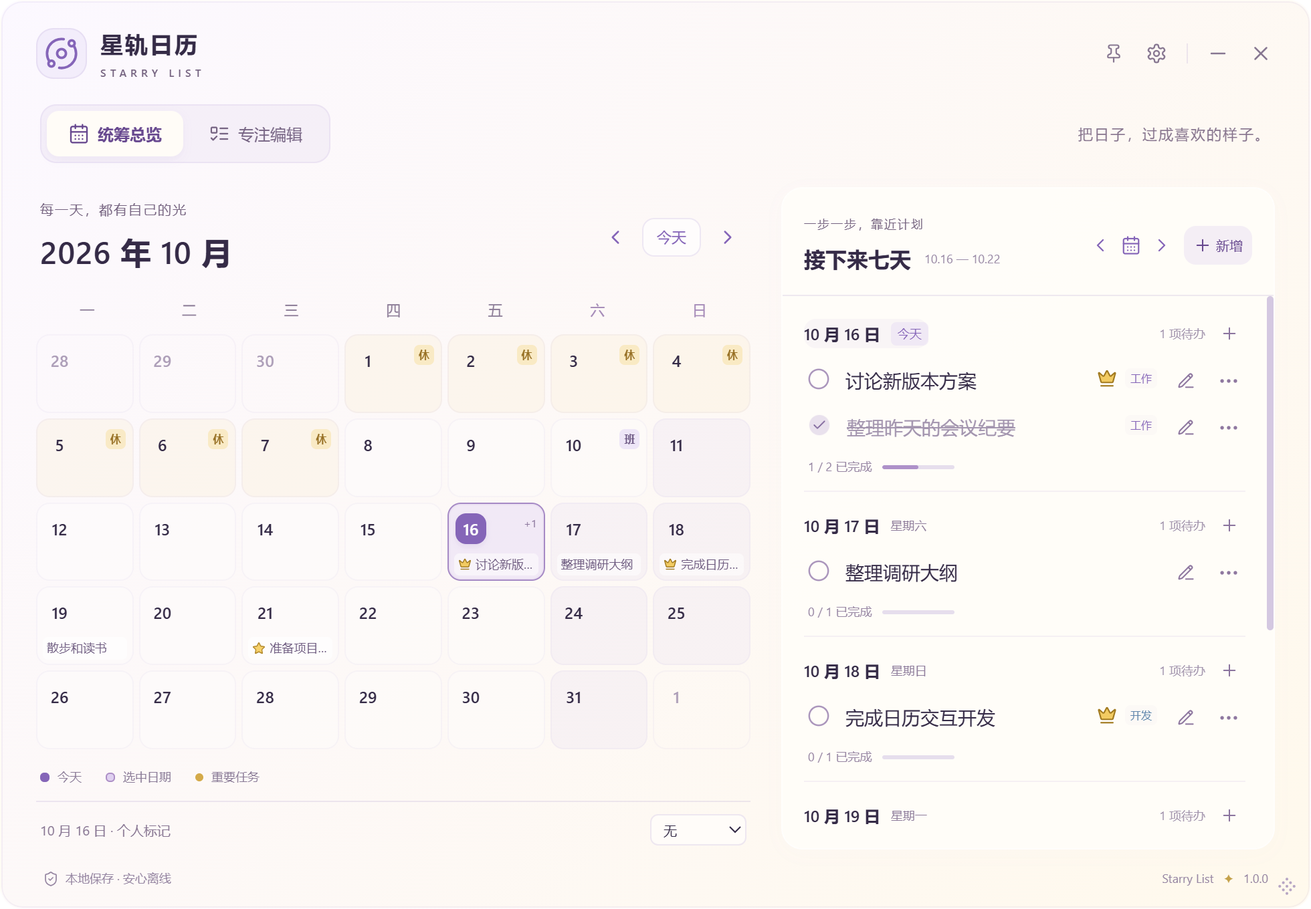
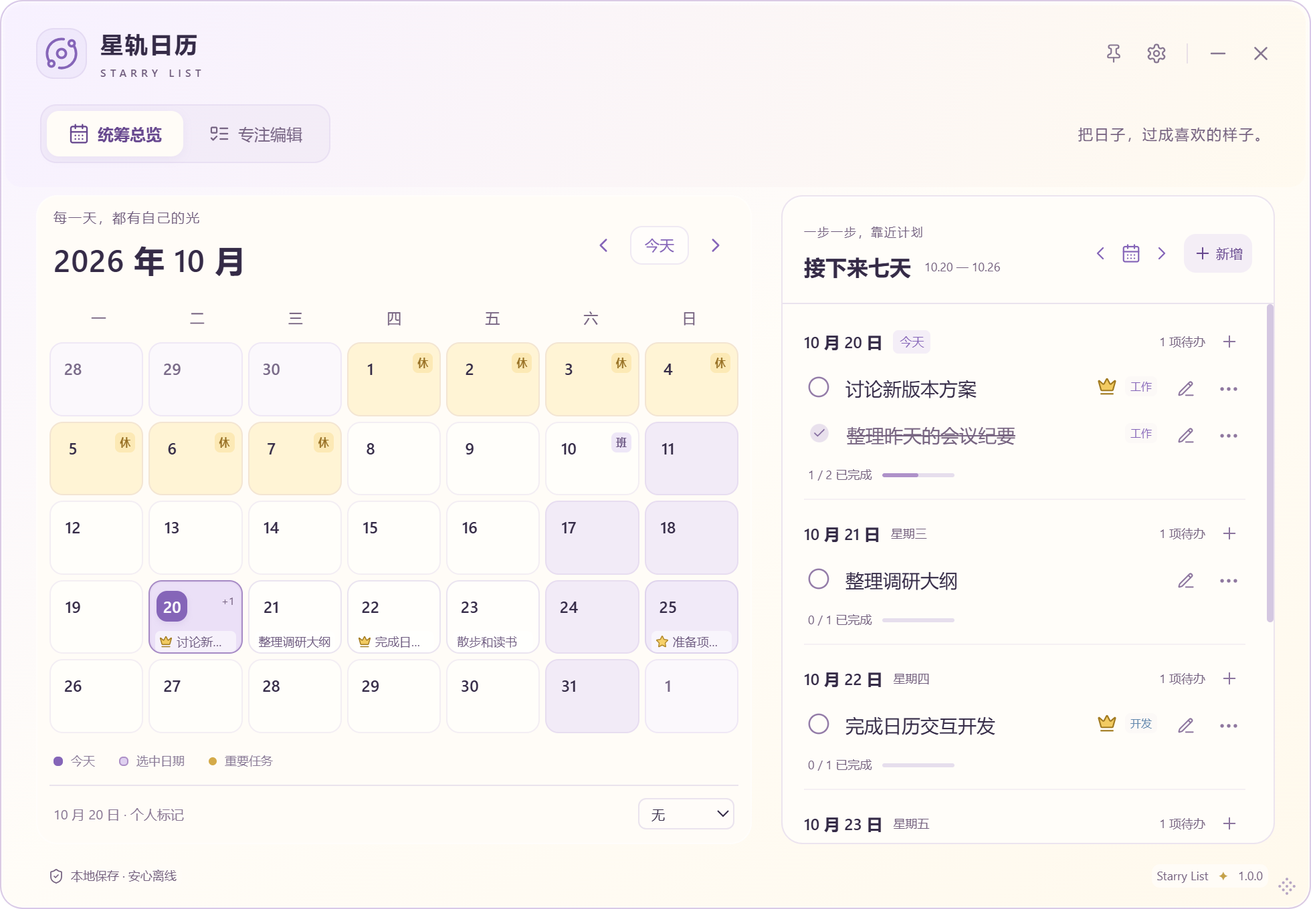
docs: record UX3.0 visual validation and preview builds

diff --git a/docs/ROADMAP.md b/docs/ROADMAP.md
@@ -1,6 +1,6 @@
 # Starry List 开发路线图
 
-维护者：yoli。更新日期：2026-10-16（Asia/Shanghai）。[需求池](PRODUCT_BACKLOG.md) 是详细需求与状态的唯一权威来源；本文件展示方向与推荐顺序，不是交付日期或开发授权。
+维护者：yoli。更新日期：2026-10-20（Asia/Shanghai）。[需求池](PRODUCT_BACKLOG.md) 是详细需求与状态的唯一权威来源；本文件展示方向与推荐顺序，不是交付日期或开发授权。
 
 ## 产品愿景
 
@@ -10,15 +10,16 @@ Windows 是当前主要平台，未来考虑 macOS。桌面驻留是待验证的
 
 ## 当前实际状态
 
-| 范围                   | 已开发                                                                                                                  | 自动化测试                                                                               | 真实桌面测试                                                 | 用户验收                                        | 正式发布               |
-| ---------------------- | ----------------------------------------------------------------------------------------------------------------------- | ---------------------------------------------------------------------------------------- | ------------------------------------------------------------ | ----------------------------------------------- | ---------------------- |
-| 初始 V1.0 源码基线     | 已提交并 Push：[`830b88f`](https://github.com/YOLIIIIII/starry-list/commit/830b88f3ddc7fbf23084cab7a722db8dcbe45f2d)    | 首次 [GitHub CI](https://github.com/YOLIIIIII/starry-list/actions/runs/38733069296) 成功 | 原始记录为 Windows 11 验证；不等于所有 Windows 设备已认证    | 未记录完整 V1.0 最终验收                        | 没有 GitHub Release    |
-| SL-001 阅读 / 编辑分离 | 已实现并独立提交：[`23a7cd3`](https://github.com/YOLIIIIII/starry-list/commit/23a7cd3941a28d0724e254ca7b9bb71c9b8fd5c8) | UX2.3 TypeScript、Lint、100 项前端和 11 项 Rust 测试通过                                 | UX2.3 22 组原生回归通过，含宽窄抽屉、长文本、菜单及保存失败  | 用户认可大部分首轮改进；In Review，仍待最终验收 | 未发布，仅本地体验构建 |
-| SL-002 七天日程空状态  | UX2.3：保留可靠失焦新增，Enter 成功后返回原日期加号                                                                     | 100 项前端、11 项 Rust 通过                                                              | 22 组 Windows 11 测试通过，含真实 Edge 失焦、INSERT 失败重试 | In Review，待用户验收                           | 未发布                 |
-| SL-003 至 SL-018       | 待安排或想法，不因登记而实现                                                                                            | 未验证                                                                                   | 未验证                                                       | 未验收                                          | 未发布                 |
-| SL-019 快捷删除入口    | UX2.3：顶部居中单行撤销通知，约 5 秒、独立计时及暂停                                                                    | 100 项前端回归通过                                                                       | 真实 DELETE 失败、重试、撤销与菜单定位通过                   | In Review，待用户验收                           | 未发布                 |
-| SL-004-A 局部字号      | UX2.1：新增文字、占位符和任务标题统一为 14px                                                                            | 前端检查通过                                                                             | 980 / 760 / 500 / 380px 无水平溢出，菜单命中及字号检查通过   | In Review，父需求 SL-004 保持未完成             | 未发布                 |
-| SL-021 行内标题修改    | UX2.2：七天日程铅笔入口，仅改标题                                                                                       | 100 项前端、11 项 Rust 回归通过                                                          | Enter/行外保存、真实 UPDATE 失败与正常关闭保护、宽窄布局通过 | Done，2026-10-16 用户确认                       | 未发布                 |
+| 范围                            | 已开发                                                                                                                  | 自动化测试                                                                               | 真实桌面测试                                                 | 用户验收                                        | 正式发布               |
+| ------------------------------- | ----------------------------------------------------------------------------------------------------------------------- | ---------------------------------------------------------------------------------------- | ------------------------------------------------------------ | ----------------------------------------------- | ---------------------- |
+| 初始 V1.0 源码基线              | 已提交并 Push：[`830b88f`](https://github.com/YOLIIIIII/starry-list/commit/830b88f3ddc7fbf23084cab7a722db8dcbe45f2d)    | 首次 [GitHub CI](https://github.com/YOLIIIIII/starry-list/actions/runs/38733069296) 成功 | 原始记录为 Windows 11 验证；不等于所有 Windows 设备已认证    | 未记录完整 V1.0 最终验收                        | 没有 GitHub Release    |
+| SL-001 阅读 / 编辑分离          | 已实现并独立提交：[`23a7cd3`](https://github.com/YOLIIIIII/starry-list/commit/23a7cd3941a28d0724e254ca7b9bb71c9b8fd5c8) | UX2.3 TypeScript、Lint、100 项前端和 11 项 Rust 测试通过                                 | UX2.3 22 组原生回归通过，含宽窄抽屉、长文本、菜单及保存失败  | 用户认可大部分首轮改进；In Review，仍待最终验收 | 未发布，仅本地体验构建 |
+| SL-002 七天日程空状态           | UX2.3：保留可靠失焦新增，Enter 成功后返回原日期加号                                                                     | 100 项前端、11 项 Rust 通过                                                              | 22 组 Windows 11 测试通过，含真实 Edge 失焦、INSERT 失败重试 | Done，2026-10-19 用户确认                       | 未发布                 |
+| SL-003 透明视觉层级             | UX3.0 已实现：连续顶栏、稳定阅读衬底与透明外壳                                                                          | 109 项前端、11 项 Rust 回归通过                                                          | 自制背景矩阵、宽窄窗口及原生拖动/缩放验证，详见验证记录      | In Review，待体验安装包确认                     | 未发布                 |
+| SL-004 至 SL-018（除 SL-004-A） | 待安排或想法，不因登记而实现                                                                                            | 未验证                                                                                   | 未验证                                                       | 未验收                                          | 未发布                 |
+| SL-019 快捷删除入口             | UX2.3：顶部居中单行撤销通知，约 5 秒、独立计时及暂停                                                                    | 100 项前端回归通过                                                                       | 真实 DELETE 失败、重试、撤销与菜单定位通过                   | Done，2026-10-19 用户确认                       | 未发布                 |
+| SL-004-A 局部字号               | UX2.1：新增文字、占位符和任务标题统一为 14px                                                                            | 前端检查通过                                                                             | 980 / 760 / 500 / 380px 无水平溢出，菜单命中及字号检查通过   | In Review，父需求 SL-004 保持未完成             | 未发布                 |
+| SL-021 行内标题修改             | UX2.2：七天日程铅笔入口，仅改标题                                                                                       | 100 项前端、11 项 Rust 回归通过                                                          | Enter/行外保存、真实 UPDATE 失败与正常关闭保护、宽窄布局通过 | Done，2026-10-16 用户确认                       | 未发布                 |
 
 初始源码提交为 `830b88f`，首次规划提交为 [`2665774`](https://github.com/YOLIIIIII/starry-list/commit/2665774d9eb07af20a968ffbc4a04019e0d6214b)，此前均已 Push，首次规划的 [GitHub CI](https://github.com/YOLIIIIII/starry-list/actions/runs/38748524618) 也已成功。第一轮 UX 源码、测试、手册和截图现已整理为独立实现提交 `23a7cd3`，本次需求更新另作文档提交；不重复初始提交。详细证据见 [验证记录](VALIDATION.md) 与 [使用手册](USER_GUIDE.md)。上述首次规划与首轮 UX 记录保留；2026-10-16 本轮再次通过 11 项 Rust、74 项前端及 15 组桌面测试，已构建独立 Windows UX2 体验包，详见验证记录。本轮实现提交：[`242fad5`](https://github.com/YOLIIIIII/starry-list/commit/242fad550f17213ae2b2e7ad06819628b1257e67)。
 
@@ -26,18 +27,18 @@ Windows 是当前主要平台，未来考虑 macOS。桌面驻留是待验证的
 
 仓库版本号为 1.0.0；源码公开、CHANGELOG 中的版本标题和本地安装器都不代表正式发布。完整安装/升级/卸载、独立 Windows 10、显卡和多显示器组合仍需后续验证。
 
-UX2.1 实现提交：[`6d7c64e`](https://github.com/YOLIIIIII/starry-list/commit/6d7c64e5127d600a7e61485d9f44faa42e89bdd1)。当前三项继续 In Review，SL-004 父需求及 SL-001 不标 Done；最新自动化、桌面与构建证据见 [验证记录](VALIDATION.md)。
+UX2.1 实现提交：[`6d7c64e`](https://github.com/YOLIIIIII/starry-list/commit/6d7c64e5127d600a7e61485d9f44faa42e89bdd1)。UX2.1 当时三项继续 In Review，SL-004 父需求及 SL-001 不标 Done；最新状态见 UX3.0 章节；最新自动化、桌面与构建证据见 [验证记录](VALIDATION.md)。
 
 ## 分阶段方向
 
-| 阶段                 | 范围与需求                                                                                                                                                   | 当前安排                                                                     | 退出条件                                                           |
-| -------------------- | ------------------------------------------------------------------------------------------------------------------------------------------------------------ | ---------------------------------------------------------------------------- | ------------------------------------------------------------------ |
-| A：任务交互优化      | [SL-001](PRODUCT_BACKLOG.md#sl-001) 阅读 / 编辑分离、保存收起、长文本与固定保存栏；[SL-002](PRODUCT_BACKLOG.md#sl-002) 七天日程空状态与快速新增              | 两项均 In Review；SL-002 补充反馈本轮已修复待体验，SL-001 未登记最终用户验收 | 补齐验收缺口、用户确认，发布状态另记                               |
-| A 补充：小型 UX 修复 | SL-002 空输入取消与自动收起；[SL-019](PRODUCT_BACKLOG.md#sl-019) 单条任务菜单与删除；[SL-004-A](PRODUCT_BACKLOG.md#sl-004) 快速新增输入字号协调              | 三项已实现并测试，均 In Review，等待用户体验；父需求 SL-004 未完成           | 草稿不丢失、删除及撤销一致、字号协调且无溢出，经用户体验确认       |
-| B：视觉与舒适度      | [SL-003](PRODUCT_BACKLOG.md#sl-003) 透明视觉层级；[SL-004](PRODUCT_BACKLOG.md#sl-004) 默认字号和字号设置；[SL-005](PRODUCT_BACKLOG.md#sl-005) 顶部非主体空间 | Backlog，未授权启动                                                          | 复杂壁纸、宽窄窗口、字号档位及不透明回退均可读，经过用户体验       |
-| C：Windows 桌面驻留  | [SL-006](PRODUCT_BACKLOG.md#sl-006) 先研究与原型，再确认是否正式实现                                                                                         | Backlog，研究尚未开展；不选定底层方案                                        | 候选方案、兼容性矩阵、风险限制和回退方案报告完成，由用户决定下一步 |
-| D：日程规划与流畅度  | [SL-007](PRODUCT_BACKLOG.md#sl-007) 接下来七天 / 本周；[SL-008](PRODUCT_BACKLOG.md#sl-008) 日期切换分析与轻量过渡                                            | Backlog，先定义周语义与性能基线                                              | 日期及任务正确、偏好保存、切换流畅且不延迟操作、支持减少动态效果   |
-| 后续探索             | [SL-009](PRODUCT_BACKLOG.md#sl-009) 位置锁定，以及 SL-010 至 SL-018                                                                                          | 依赖待确认或 Idea，不承诺 V1.1 / V2.0 范围与日期                             | 每项独立评估和授权，逐项验收                                       |
+| 阶段                 | 范围与需求                                                                                                                                                   | 当前安排                                                             | 退出条件                                                           |
+| -------------------- | ------------------------------------------------------------------------------------------------------------------------------------------------------------ | -------------------------------------------------------------------- | ------------------------------------------------------------------ |
+| A：任务交互优化      | [SL-001](PRODUCT_BACKLOG.md#sl-001) 阅读 / 编辑分离、保存收起、长文本与固定保存栏；[SL-002](PRODUCT_BACKLOG.md#sl-002) 七天日程空状态与快速新增              | SL-002 已验收 Done；SL-001 仍缺独立完整验收，为 In Review            | 补齐验收缺口、用户确认，发布状态另记                               |
+| A 补充：小型 UX 修复 | SL-002 空输入取消与自动收起；[SL-019](PRODUCT_BACKLOG.md#sl-019) 单条任务菜单与删除；[SL-004-A](PRODUCT_BACKLOG.md#sl-004) 快速新增输入字号协调              | SL-002 / SL-019 已验收 Done；SL-004-A 仍 In Review，父需求未完成     | 草稿不丢失、删除及撤销一致、字号协调且无溢出，经用户体验确认       |
+| B：视觉与舒适度      | [SL-003](PRODUCT_BACKLOG.md#sl-003) 透明视觉层级；[SL-004](PRODUCT_BACKLOG.md#sl-004) 默认字号和字号设置；[SL-005](PRODUCT_BACKLOG.md#sl-005) 顶部非主体空间 | SL-003 UX3.0 已授权实现，In Review；SL-004 / SL-005 留 UX3.1，未开发 | 复杂壁纸、宽窄窗口、字号档位及不透明回退均可读，经过用户体验       |
+| C：Windows 桌面驻留  | [SL-006](PRODUCT_BACKLOG.md#sl-006) 先研究与原型，再确认是否正式实现                                                                                         | Backlog，研究尚未开展；不选定底层方案                                | 候选方案、兼容性矩阵、风险限制和回退方案报告完成，由用户决定下一步 |
+| D：日程规划与流畅度  | [SL-007](PRODUCT_BACKLOG.md#sl-007) 接下来七天 / 本周；[SL-008](PRODUCT_BACKLOG.md#sl-008) 日期切换分析与轻量过渡                                            | Backlog，先定义周语义与性能基线                                      | 日期及任务正确、偏好保存、切换流畅且不延迟操作、支持减少动态效果   |
+| 后续探索             | [SL-009](PRODUCT_BACKLOG.md#sl-009) 位置锁定，以及 SL-010 至 SL-018                                                                                          | 依赖待确认或 Idea，不承诺 V1.1 / V2.0 范围与日期                     | 每项独立评估和授权，逐项验收                                       |
 
 [SL-020](PRODUCT_BACKLOG.md#sl-020) 同日拖动排序为 P2 / Backlog，仅登记；与 SL-018 跨日期拖动独立。建议 UX2.1 验收、任务行稳定且完成跨完成组规则评审后，再与 SL-007 / SL-008 一起评估投入顺序；不强制依赖高风险驻留或跨日期拖动，本次不开工。
 
@@ -53,7 +54,7 @@ UX2.1 实现提交：[`6d7c64e`](https://github.com/YOLIIIIII/starry-list/commit
 - 以上实现为 In Review，实际证据见 [验证记录](VALIDATION.md)；SL-004-A 保持 14px / In Review，SL-001 未关闭；SL-020 仍 Backlog，无拖动实现。
 - 下一轮先验收 UX2.2，再评审 SL-003 透明视觉，SL-004 全局字号和 SL-005 后续协调；SL-006 研究、SL-007 / SL-008 仍按既有依赖独立评估。
 
-## UX2.3 当前增量
+## UX2.3 历史增量
 
 实现提交：[`277ca90`](https://github.com/YOLIIIIII/starry-list/commit/277ca906816e94aa76eaabb0726800bafdd16054)；100 项前端、11 项 Rust、22 组 Windows 11 桌面回归及正式配置 NSIS 构建通过，未正式发布。
 
@@ -62,6 +63,15 @@ UX2.1 实现提交：[`6d7c64e`](https://github.com/YOLIIIIII/starry-list/commit
 - SL-019：新增/删除撤销通知顶部居中、紧凑单行、约 5 秒；有效撤销独立管理，支持计数按钮逐条查看，弹窗/抽屉期间隐藏并暂停。继续 In Review，待位置/时长验收。
 - 14px 与 SL-004-A / In Review 不变，SL-001 不关闭；SL-018 / SL-020、SL-022 / SL-023 不变，无新增编号和拖动/星河实现。实际测试与体验构建见 [验证记录](VALIDATION.md)。
 - 下一轮先验收 UX2.3，再按原顺序评审 SL-003 透明视觉；全局字号、顶部优化与驻留研究仍需独立授权。
+
+## UX3.0 当前增量
+
+实现提交：[`4e640e0`](https://github.com/YOLIIIIII/starry-list/commit/4e640e0b87e39fe0308e9ab00549971bd235605f)；109 项前端、11 项 Rust 和 22 组桌面回归通过；透明/不透明 Windows x64 NSIS 构建均成功，视觉仍待用户确认，不透明完整合成截图矩阵尚有缺口。
+
+- 只实现 [SL-003](PRODUCT_BACKLOG.md#sl-003)：统一顶栏背景、稳定阅读衬底、细描边和明度分层，修复旧补色在中间透明度保护变弱的根因。不改变 14px、双视图、任务持久化和 UX2.3 通知/键盘交互，不增加原生特效或模糊依赖。
+- 用户认可 UX2.3；核对既有验收证据后 SL-002 / SL-019 Done，SL-021 保持 Done；SL-001 / SL-004-A 不提前关闭。SL-003 实现后 In Review，等待用户体验。
+- [视觉对比](UX3_VISUAL_REVIEW.md) 使用自制背景与隔离数据；新旧样式基线、Windows 实测、构建及限制见 [验证记录](VALIDATION.md)。体验构建不等于正式发布。
+- 下一步先验收 UX3.0，再在 **UX3.1 单独处理 SL-004 全局字号与 SL-005 顶部空间**，不能因列入路线图就自动开工；SL-006 仅待研究，其余拖动、星星/星河规划保持不变。
 
 ## 未来独立设计阶段：每日星星与星河
 

diff --git a/docs/VALIDATION.md b/docs/VALIDATION.md
@@ -1,5 +1,53 @@
 # V1.0 验证记录
 
+## 2026-10-20：UX3.0 透明视觉体系（SL-003）
+
+仅改透明视觉层级与测试工具：连续圆角顶栏、真正随滑块变化的透明外壳、稳定奶油色阅读衬底和清楚的前景。14px、顶部排布、日期计算、任务排序、数据库 Schema、应用标识及 UX2.3 交互不变。不依赖模糊滤镜或新增原生窗口特效。
+
+用户确认 UX2.3 体验良好；对照此前逐项标准、100 项前端及 22 组桌面证据，SL-002 / SL-019 记录 2026-10-19 用户确认并标记 Done。SL-021 已 Done，未重复修改。SL-001 / SL-004-A 仍缺独立完整验收，保留 In Review；用户未再反馈 14px 问题不等于关闭字号父需求。SL-003 实现后 **In Review**，等待本轮体验版视觉确认；所有事项均未正式发布。
+
+### 自动化与真实桌面结果
+
+- `npm run check`：TypeScript、ESLint、**109 项 Vitest**（57 App、5 撤销提示、31 域逻辑、5 store、6 窗口边界、5 视觉 alpha）和前端生产构建通过。新增测试覆盖 40% / 70% / 100% 的真实外壳数值与持久化、局部衬底单调增强、实色回退禁用/恢复偏好，不用父级 opacity。
+- `cargo fmt --check`、**11 项 Rust/SQLite 测试**及 Clippy `-D warnings` 通过。没有修改 Rust 业务实现、迁移、Tauri 生产配置或 capability。
+- **22 组 Windows 11 / 原生 WebView2 交互回归通过**：Enter 在三个日期分别连续新增三条、加号焦点返回、失焦新增与撤销、行内更新、完成、删除确认/撤销、顶部约 5 秒通知及独立暂停、长计划与固定保存栏、抽屉草稿保护、真实 INSERT / UPDATE / DELETE 失败重试、导入导出及重启持久化。独立 Edge 实际获得前台后，标题只保存一次且保持原日期；原生 `is_focused=false`，保存不重新激活应用。
+- 桌面回归首次跨软件等待超时；重试确认自动新增成功，但先关闭测试 Edge 再撤销可能超过 5 秒。测试现先回到应用撤销，再关闭自己创建的浏览器，最终完整通过；没有延长产品通知时间或修改新增逻辑来适应测试。
+- **48 张真实合成背景矩阵截图通过**：4 种自制背景 × 3 档透明度 × 2 主视图 × 新旧 2 套样式；另有 **16 项前景截图检查**，覆盖 980 / 760 / 500 / 380px 的菜单、只读长详情、固定抽屉保存栏、设置和顶部通知，无水平溢出，菜单与按钮命中正常。真实 OS 鼠标拖动标题区及右侧边缘缩放成功，不仅是调用 set-size。
+- 环境为 Windows 11 25H2、build 26200.9457，截图使用当前屏幕约 200% 比例；不等于混合 DPI 认证。四种背景是脚本绘制的浅色几何、深色圆环、高对比色块与斜线、密集测试文字/图标；全部任务为自建隔离示例。截图前后检查自制背景覆盖、测试应用前台及无无关窗口穿入，条件不满足拒绝写图。未使用私人壁纸、照片或个人窗口内容。
+- 相同阅读区采样点跨背景最大 RGB 通道变化：40% 时旧总览 / 专注为 26 / 39，新版为 2 / 1；70% 为旧 35 / 52、新 0 / 0；100% 均为 0。新版外壳采样仍为 131 / 66 / 0，证明透明度没有被伪装为相同效果。新版采样底色与主文字颜色计算对比度最低约 12.63:1；只代表指定采样，不宣称所有文字完成无障碍认证。
+- 新旧对比是固定 `d50af11` 编译 CSS 与旧 alpha 公式在同一应用中的样式基线，不是旧安装包重新运行。前端日历固定 2026-10-19，计时器仍使用真实时间；旧样式可从 Git 历史独立编译，已验证缓存为空时的生成。方法、原图与比较见 [视觉对比](UX3_VISUAL_REVIEW.md)。
+
+### 隔离复现
+
+Node.js 24、Rust、Windows WebView2 / Edge 就绪后使用以下**仅测试**配置；不将额外权限加入正式构建。测试只关闭自己创建的进程。
+
+```powershell
+New-Item -ItemType Directory -Force .cache | Out-Null
+'{"identifier":"app.starrylist.desktop.ux30-test","app":{"security":{"capabilities":["main-capability",{"identifier":"ux30-focus-test","windows":["main"],"permissions":["core:window:allow-set-focus"]}]}}}' | Set-Content .cache/ux30-test.conf.json -Encoding utf8NoBOM
+npm run tauri build -- --debug --no-bundle --config .cache/ux30-test.conf.json
+npm run test:desktop
+npm run test:visual
+```
+
+`test:visual` 需要完整的 Git 历史来编译固定旧样式；结果矩阵、隔离数据库和完整原图保存在忽略的 `.cache/visual-*`，公开文档只保留已逐张检查的自制示例。原生不透明调试配置需要合并 `src-tauri/tauri.opaque.conf.json` 与独立测试标识/权限，再运行 `npm run test:visual -- --opaque`；不要误用安装版或正式数据目录。
+
+### 不透明回退与交付
+
+原生不透明调试构建成功；本轮不透明合成截图两次因隐私保护发现无关窗口而被拒绝，**不将其记为视觉通过**。另用不截屏的隔离原生窗口检查：`native_transparency=false`，两种视图 × 四种宽度 × 40% / 70% / 100% 的已保存偏好共 **24 组**均为全 alpha=1、无水平溢出，四种宽度的滑块均禁用。实色回退的偏好恢复另有前端测试。真实不透明背景的完整合成截图矩阵仍待补齐。
+
+默认透明与原生不透明的**生产配置 Windows x64 NSIS 构建均成功**；安装包独立归档，无测试专用配置/权限，BUNDLEID 仍为 `app.starrylist.desktop`，Publisher / Copyright 为 yoli。体验包如下，校验文件为 `artifacts/UX3.0-PREVIEW-20261020-SHA256SUMS.txt`：
+
+| 安装包（本地 artifacts/）                                       | 字节数    | SHA256                                                             |
+| --------------------------------------------------------------- | --------- | ------------------------------------------------------------------ |
[2 lines of base64/hex data omitted]
+
+尚未执行安装器、同版本覆盖、卸载；未验证独立 Windows 10、真实中文输入法候选窗、不同 GPU、混合 DPI / 多显示器。中文输入法组合事件与不同设备比例由既有前端/WebView 测试覆盖，不冒充真实 IME 或硬件认证。复杂壁纸下外壳轻盈程度、内容衬底是否过厚、圆角与配色仍须用户最终确认；SL-004 / SL-005 留 UX3.1 独立授权，SL-006 及星星/星河未开发。
+
+正式 SQLite 主文件测试前后 SHA256 一致；所有测试写入独立测试目录，未删除、重置或迁移用户数据。安装包、测试数据库与全量原图不纳入 Git；旧 UX2.3 包保留，不创建 Tag 或正式 Release。
+
+本轮实现提交：[`4e640e0`](https://github.com/YOLIIIIII/starry-list/commit/4e640e0b87e39fe0308e9ab00549971bd235605f)；验证记录、需求状态、用户手册和自制对比截图另作文档提交。
+
 ## 2026-10-16：UX2.3 通知与连续新增修复
 
 范围仅为 SL-002 Enter 成功后的焦点返回及 SL-019 新增/删除通知位置与时长。失焦自动新增、已有任务完整编辑和 SQLite Schema 均未修改；14px 与 SL-004-A / In Review 不变，SL-022 / SL-023 仅规划。用户已认可 UX2.2 应用内/跨窗口失焦新增、新增撤销与七天行内修改；核对既有标准和测试证据后记录 SL-021 用户确认并标记 **Done**，仍未正式发布。SL-002 / SL-019 继续 **In Review**，等待本轮体验验收。

diff --git a/docs/UX3_VISUAL_REVIEW.md b/docs/UX3_VISUAL_REVIEW.md
@@ -1,0 +1,74 @@
+# UX3.0 透明视觉对比
+
+本轮仅对应 [SL-003](PRODUCT_BACKLOG.md#sl-003)，视觉仍待用户最终确认。字号保持 14px，顶部高度、双视图、月历日期/排序和已有任务交互不重做。
+
+## 对比条件
+
+- Windows 11、真实透明 Tauri / WebView2 窗口；四种背景均由项目测试脚本自制：浅色几何、深色圆环、高对比色块与斜线、密集测试文字/图标。没有使用私人壁纸、照片或实际个人窗口内容。
+- 旧版为 `d50af11` 的 UX2.3 编译样式与旧 alpha 公式，在同一测试应用、示例任务、窗口尺寸和背景上复现；这是**样式基线对比**，不是重新运行旧安装包。新旧交互代码相同，避免将内容差异误当视觉改善。
+- 截图的前端日历固定为 2026-10-19，以便跨日复现；计时器与原生窗口操作仍使用真实时间，最终检查和安装包日期为 2026-10-20。
+- 矩阵检查 980 × 680 逻辑像素、40% / 70% / 100%、两种主视图；前景与宽窄回归覆盖 980 / 760 / 500 / 380px。截图为 Windows 实际合成后的物理像素，不是把壁纸贴在网页根背景上模拟。
+- 截图助手只截取测试应用的矩形；要求自制背景完整覆盖该区域，且没有无关窗口位于其上方。截取前后均检查测试前台和覆盖条件，条件改变即拒绝保存。未采用 Windows Explorer 嵌入或改动用户桌面配置。
+
+## 原因与方案
+
+旧补色 `max(0, (0.85 − alpha) × 1.6)` 分别应用于标题栏、模式区、月历和专注区。它制造了独立色块；在阅读底层与外壳叠加后，40% / 70% 的有效背景 alpha 约为 0.832 / 0.772，中间档位反而保护更弱。日期半透明底色和浅色辅助文字进一步受复杂背景干扰。
+
+新层级：
+
+| 层级           | 设计                                                                                      |
+| -------------- | ----------------------------------------------------------------------------------------- |
+| 外壳           | 连续薰衣草紫—奶油色渐变、柔和边缘；滑块仍真正改变外壳 alpha                               |
+| 顶部与主阅读区 | 标题/模式共用圆角背景；月历、七天与专注区各有稳定衬底，以明度、细描边和小间距区分         |
+| 日期与任务     | 周末浅紫、假期浅金、补班常规底色；今天/选中和重要标记保留；任务保持紧凑，辅助文字增强对比 |
+| 前景           | 输入框、只读详情、抽屉、弹窗、菜单与通知保持清晰；没有整棵 DOM opacity，没有模糊滤镜依赖  |
+
+## 新旧截图
+
+下列图片都来自隔离示例数据与自制背景。点击可看完整尺寸。
+
+| 条件                    | UX2.3 样式基线                                         | UX3.0                                                  |
+| ----------------------- | ------------------------------------------------------ | ------------------------------------------------------ |
+| 高对比背景 / 70% / 总览 | [旧图](screenshots/ux30/ux23-colorful-70-overview.png) | [新图](screenshots/ux30/ux30-colorful-70-overview.png) |
+| 密集文字 / 40% / 专注   | [旧图](screenshots/ux30/ux23-text-40-focus.png)        | [新图](screenshots/ux30/ux30-text-40-focus.png)        |
+
+![UX2.3 总览样式基线](screenshots/ux30/ux23-colorful-70-overview.png)
+
+![UX3.0 总览](screenshots/ux30/ux30-colorful-70-overview.png)
+
+外层空隙仍能透视背景；月历日期与七天任务不再与强烈色块争夺注意力。专注衬底抑制背后文字，已完成任务仍以紫灰删除线区分。100% 和原生不透明回退使用实色衬底，不靠滤镜制造灰雾。
+
+## 透明度语义
+
+| 设置     | 外壳             | 内容保护                                                              |
+| -------- | ---------------- | --------------------------------------------------------------------- |
+| 40%      | 空隙与边缘最通透 | 阅读面板至少约 99.4% 的合成背景覆盖，日期格至少约 99%；标题栏约 97.8% |
+| 70%      | 外壳透视减弱     | 阅读面板约 99.9%，日期格保护进一步增强                                |
+| 100%     | 不透底层背景     | 所有基础衬底 alpha 为 1，保留紫黄层级而无模糊                         |
+| 实色回退 | 不透视           | 原偏好保留；关闭实色开关可恢复。原生不透明构建仍不能透视，滑块禁用    |
+
+上述百分比为多层背景的理论合成覆盖，不是文字 opacity，也不代替实际桌面观察。真实像素采样、交互回归、构建结果和未验证范围见 [验证记录](VALIDATION.md)。
+
+同一阅读区采样点在四种背景之间的最大 RGB 通道变化如下（数值越小，越不受背后内容干扰）：
+
+| 不透明度 | UX2.3 总览 / 专注 | UX3.0 总览 / 专注 | 新版外壳采样变化 |
+| -------- | ----------------- | ----------------- | ---------------- |
+| 40%      | 26 / 39           | 2 / 1             | 131              |
+| 70%      | 35 / 52           | 0 / 0             | 66               |
+| 100%     | 0 / 0             | 0 / 0             | 0                |
+
+这证明阅读区更稳定，同时外壳仍保留真实透明度差异。新版采样底色与主文字颜色的计算对比度最低约 12.63:1；这是指定采样点的检查，不是全界面所有文字的无障碍认证。补充查看 [380px 抽屉](screenshots/ux30/drawer-380.png) 与 [380px 顶部通知](screenshots/ux30/notification-380.png)。
+
+## 复现
+
+按 [验证记录](VALIDATION.md) 创建独立调试标识配置，构建后执行 `npm run test:visual`。脚本从固定历史提交编译旧样式至忽略目录（不切换/改写 Git）；需要完整 Git 历史和已安装依赖。所有测试数据库、完整矩阵和结果 JSON 保存在 `.cache/visual-*`，仅自制对比图纳入公开文档。
+
+测试期间请让自制背景与测试窗口保持前台；无关窗口出现会使截图保护拒绝保存。脚本只关闭自己创建的窗口，不关闭安装版、不写正式数据库。原生不透明调试构建可用 `npm run test:visual -- --opaque` 验证。
+
+## 用户体验清单
+
+1. 切换 40%、70%、100%，观察外壳确实变化，而日期与任务保持清楚。
+2. 在复杂壁纸前查看总览、专注和只读长计划，判断奶油色衬底和紫黄层级是否舒服。
+3. 缩到窄窗口，打开菜单、设置和编辑抽屉，确认按钮、滚动和文本不裁切。
+4. 连续 Enter 新增、失焦保存、完成任务、行内改标题、删除撤销，确认 UX2.3 交互保持。
+5. 检查顶部通知约 5 秒及暂停、实色回退，记录尚有干扰或过厚重的位置。

diff --git a/docs/USER_GUIDE.md b/docs/USER_GUIDE.md
@@ -4,7 +4,7 @@
 
 本文按 V1.0 实际界面、任务编辑器、设置及安装器配置编写。界面默认使用简体中文。安装器中的应用名称为 **Starry List**，应用窗口内显示「星轨日历」。
 
-2026-10-16 更新：以下说明对应 UX2.3 体验版；UX2 与更早安装包的交互可能不同。
+2026-10-20 更新：以下说明对应 UX3.0 体验版；UX2 与更早安装包的交互可能不同。
 
 ## 首次使用五分钟快速上手
 
@@ -29,9 +29,11 @@
 
 当前安装包未配置代码签名，Windows 可能显示「未知发布者」或 SmartScreen 提示。源码中的版权和安装包发布者显示现已统一为 `yoli`；现有旧安装包需要重新构建才会包含更新，见 [验证记录](VALIDATION.md)。该署名不是已验证的签名证书身份。请核对安装包来源及维护者提供的 SHA256。
 
-### 安装 UX2.3 体验版
+### 安装 UX3.0 体验版
 
-本轮默认透明版文件名为 `Starry-List_1.0.0_x64-ux2.3-preview-20261016-setup.exe`，配套校验文件为 `UX2.3-PREVIEW-20261016-SHA256SUMS.txt`，均在维护者本地 `artifacts/` 目录，不随源码上传 GitHub。它仍使用 1.0.0 和相同应用标识，会更新同一个应用，不是并行安装的第二套软件。
+本轮默认透明版文件名为 `Starry-List_1.0.0_x64-ux3.0-preview-20261020-setup.exe`，配套校验文件为 `UX3.0-PREVIEW-20261020-SHA256SUMS.txt`，均在维护者本地 `artifacts/` 目录，不随源码上传 GitHub。它仍使用 1.0.0 和相同应用标识，会更新同一个应用，不是并行安装的第二套软件。
+
+本轮也提供原生不透明回退包 `Starry-List_1.0.0_x64-ux3.0-opaque-preview-20261020-setup.exe`，与透明版共用同一校验文件。通常先选默认透明版；不透明版的构建和原生配置/布局已检查，完整合成截图仍有验证缺口，详见 [验证记录](VALIDATION.md)。
 
 先在旧版设置中「导出 JSON」备份重要任务，再正常关闭旧版。运行新安装器，沿用原安装目录；如果检测到同版本，选择「添加/重新安装组件」继续覆盖，不要选择卸载。该选项已按实际生成的 NSIS 脚本核对，但本轮没有执行安装器验证。无需为了更新而手动卸载或删除数据目录。如果提示应用仍在运行，取消后正常退出旧版再重试。提示不明确时保留备份并取消，不要勾选「删除应用程序数据」来解决。安装后从开始菜单重新启动，检查任务和详情是否保留。
 
@@ -223,7 +225,9 @@ V1.0 没有系统托盘功能。右上角关闭按钮是退出应用，不是隐
 
 点击右上角**齿轮**打开「让星轨更适合你」。设置较长时在面板内向下滚动，底部有数据备份和版本说明；没有独立的「关于」菜单按钮。参考 [设置截图](screenshots/settings.png)。
 
-默认透明版的「背景不透明度」滑块范围为 **40%–100%**，初始约 **85%**。数值越低，桌面越容易透过背景；100% 表示完全不透明。拖动时实时预览，松开或使用键盘调整后保存；文字、图标及输入区域保持清晰，不随整个窗口一起变淡。
+默认透明版的「背景不透明度」滑块范围为 **40%–100%**，初始约 **85%**。数值越低，桌面越容易透过外壳、边缘和留白；100% 表示完全不透明。UX3.0 的月历、七天日程和专注清单使用稳定的浅色阅读衬底，低透明度也不会让整个内容区随外壳一起变淡，这是阅读保护。拖动时实时预览，松开或使用键盘调整后保存；文字、图标及输入区域保持清晰，不随整个窗口一起变淡。
+
+顶栏的标题和模式切换共用连续的圆角背景，任务标题仍为 14px；日期、任务和前景控件通过底色与细描边区分，没有新增模糊滤镜或系统特效。新旧对比和测试条件见 [UX3.0 视觉对比](UX3_VISUAL_REVIEW.md)。Enter 连续新增、失焦保存、顶部约 5 秒撤销通知等 UX2.3 行为保持不变。
 
 开启「实色背景回退」后，背景完全不透明，滑块不可操作；关闭它可恢复透明度调整。原生不透明版的滑块始终不可操作，即使关闭此开关也不能透视桌面。
 

diff --git a/README_EN.md b/README_EN.md
@@ -72,9 +72,9 @@ No accounts, cloud services, telemetry, remote fonts or network icons. Data is u
 
 See the [roadmap](docs/ROADMAP.md), [product backlog](docs/PRODUCT_BACKLOG.md) and [decision log](docs/DECISIONS.md) (Chinese). The Markdown backlog is the authoritative source for detailed requirements, priorities, states and acceptance criteria. Recording a request does not authorize implementation; no unassessed version scope or release date is promised.
 
-UX2.3 restores keyboard focus to the original date's add button after a successful Enter submission and moves independent undo notifications to a compact top-center area with a five-second lifetime. SL-002 / SL-019 remain In Review. Inline agenda title editing (SL-021) is Done following user confirmation, but has not been formally released. The existing 14px text and SL-004-A review status remain unchanged. Daily stars (SL-022) and the galaxy/orbit space (SL-023) are planning only. See the backlog and validation record for current evidence.
+UX3.0 implements only SL-003: a continuous rounded header and stable reading surfaces while preserving shell opacity (40–100%), 14px task text and all UX2.3 interactions. Visual acceptance remains In Review; see the [before/after comparison](docs/UX3_VISUAL_REVIEW.md). SL-002 / SL-019 are Done following user confirmation and evidence review; SL-021 stays Done. These changes are not formally released. SL-001 / SL-004-A remain In Review. Global font settings and top-area layout are deferred to a separately authorized UX3.1 iteration; stars, galaxy, dragging and desktop residency remain planning only.
 
-The initial V1.0 source is pushed. First-round UX changes are recorded separately in implementation commit [`23a7cd3`](https://github.com/YOLIIIIII/starry-list/commit/23a7cd3941a28d0724e254ca7b9bb71c9b8fd5c8); SL-001 / SL-002 remain In Review pending final user acceptance. There is no published GitHub Release. Planned capabilities are not implemented features.
+The initial V1.0 source is pushed. First-round UX changes are recorded separately in implementation commit [`23a7cd3`](https://github.com/YOLIIIIII/starry-list/commit/23a7cd3941a28d0724e254ca7b9bb71c9b8fd5c8); the backlog tracks subsequent acceptance decisions. There is no published GitHub Release. Planned capabilities are not implemented features.
 
 ## License
 

diff --git a/README.md b/README.md
@@ -140,9 +140,9 @@ docs/VALIDATION.md     验证范围与限制
 
 详细计划见 [开发路线图](docs/ROADMAP.md)，需求、优先级、状态与验收标准见 [产品需求池](docs/PRODUCT_BACKLOG.md)，重要取舍见 [产品决策记录](docs/DECISIONS.md)。登记需求不会自动启动开发，不承诺未经评估的版本范围或发布日期。
 
-UX2.3 修复总览 Enter 保存后返回原日期加号的连续新增体验，新增/删除撤销通知移至顶部居中、约 5 秒；SL-002 / SL-019 仍 In Review，待用户体验验收。SL-021 行内标题编辑已记录用户确认并标记 Done，尚未正式发布；SL-004-A 的 14px 与 In Review 状态不变。SL-022 每日星星与 SL-023 星河仅登记。之后再评审透明视觉、全局字号和顶部空间。桌面驻留先研究可行性；自然周与切换流畅度可独立评估。主题、分类管理、重复任务、搜索、位置锁定、macOS 和可选云端能力均保留在需求池中。
+UX3.0 仅升级 SL-003 透明视觉：连续圆角顶栏与稳定阅读衬底，保留 40%–100% 外壳透明度、14px 和 UX2.3 交互；当前 In Review，等待视觉体验确认。新旧界面见 [视觉对比](docs/UX3_VISUAL_REVIEW.md)。用户确认并核查证据后 SL-002 / SL-019 已为 Done，SL-021 保持 Done，尚未正式发布；SL-001 / SL-004-A 仍 In Review。SL-004 全局字号和 SL-005 顶部空间安排 UX3.1 单独评审。星星/星河、拖动及桌面驻留规划不变，登记不代表开工。
 
-当前初始 V1.0 源码已同步，第一轮 UX 改进已作为独立实现提交 [`23a7cd3`](https://github.com/YOLIIIIII/starry-list/commit/23a7cd3941a28d0724e254ca7b9bb71c9b8fd5c8) 纳入历史；SL-001 / SL-002 仍为 In Review，等待最终用户验收。本项目尚无正式 GitHub Release。原 V1.1 / V2.0 列表作为候选想法整合到需求池，不代表已实现功能或发布日期。
+初始 V1.0 源码已同步，第一轮 UX 改进已作为独立实现提交 [`23a7cd3`](https://github.com/YOLIIIIII/starry-list/commit/23a7cd3941a28d0724e254ca7b9bb71c9b8fd5c8) 纳入历史；后续验收状态以需求池为准。本项目尚无正式 GitHub Release。原 V1.1 / V2.0 列表作为候选想法整合到需求池，不代表已实现功能或发布日期。
 
 ## 许可证
 

diff --git a/CHANGELOG.md b/CHANGELOG.md
@@ -2,7 +2,12 @@
 
 ## 未发布 — V1.0 发布前维护
 
-UX2 至 UX2.2 为历史体验迭代记录，当前行为以 UX2.3 为准；均不代表正式 Release。
+UX2 至 UX2.3 为历史体验迭代记录，当前行为以 UX3.0 为准；均不代表正式 Release。
+
+- UX3.0 / SL-003：修正中间透明度阅读保护变弱的计算；连续圆角顶栏、稳定月历/七天/专注阅读衬底、细描边和辅助文字对比优化。外壳仍随 40%–100% 改变，100%/实色回退不透视，无整体 opacity 或模糊滤镜依赖。
+- 保持 14px、双视图、任务数据结构及 UX2.3 全部交互；全局字号与顶部空间留 UX3.1 独立处理。
+- 记录用户 2026-10-19 对 UX2.3 的认可，核查证据后 SL-002 / SL-019 标记 Done；SL-003 In Review 待视觉验收，SL-001 / SL-004-A 不提前关闭，SL-021 与星河规划不变。
+- 增加自制背景、受保护原生截图、新旧样式对比及透明/不透明回退验证。详见视觉对比与验证记录，未正式发布。
 
 - UX2.3 / SL-002：总览输入框 Enter 成功后返回原日期加号，第二次 Enter 可继续同日新增；指针、键盘、导航或窗口失焦取消迟到的焦点返回，失焦保存不抢焦点。
 - UX2.3 / SL-019：新增/删除撤销通知移至顶部居中单行区域，约 5 秒、独立计时，悬停/键盘焦点暂停；多条可逐条查看，弹窗/编辑抽屉期间隐藏并暂停，不挤动主布局。

diff --git a/docs/DECISIONS.md b/docs/DECISIONS.md
@@ -93,3 +93,12 @@
 - 原因：让记录计划轻松，让完成计划有成就感，空白日不作负面评价。
 - 影响范围：SL-022 / SL-023 的未来独立设计；零任务无星、不要求连续打卡；原创形象与既有主题协调。
 - 是否重新评估：统计、历史重算、月中分母、历史奖励和候选半数/四分之三门槛均须单独评审，不写成最终决定；本轮不实现。
+
+### DEC-011
+
+**透明外壳与稳定阅读衬底分层，透明度不作用于整棵 DOM。**
+
+- 日期：2026-10-19；状态：SL-003 当前实现方案，视觉仍待用户验收，可继续调整具体配色与数值。
+- 原因：旧补色公式在中间透明度保护更弱，且不同区域分别叠色产生突兀矩形；复杂壁纸和背后文字不能抢占任务可读性。
+- 影响范围：surfaceAlphas、连续顶栏、月历/七天/专注与前景背景。外壳保持 40%–100% 真实变化；内容局部保护单调增强；不依赖 backdrop-filter、全局 opacity 或新增原生特效。应用 ID、数据及 14px 不变；不提前实施 SL-004 / SL-005 / SL-006。
+- 是否重新评估：用户安装 UX3.0 后根据视觉舒适度与兼容性反馈复核；硬件范围、DPI、原生不透明和性能结论以实际验证为准，不泛称所有设备已认证。
